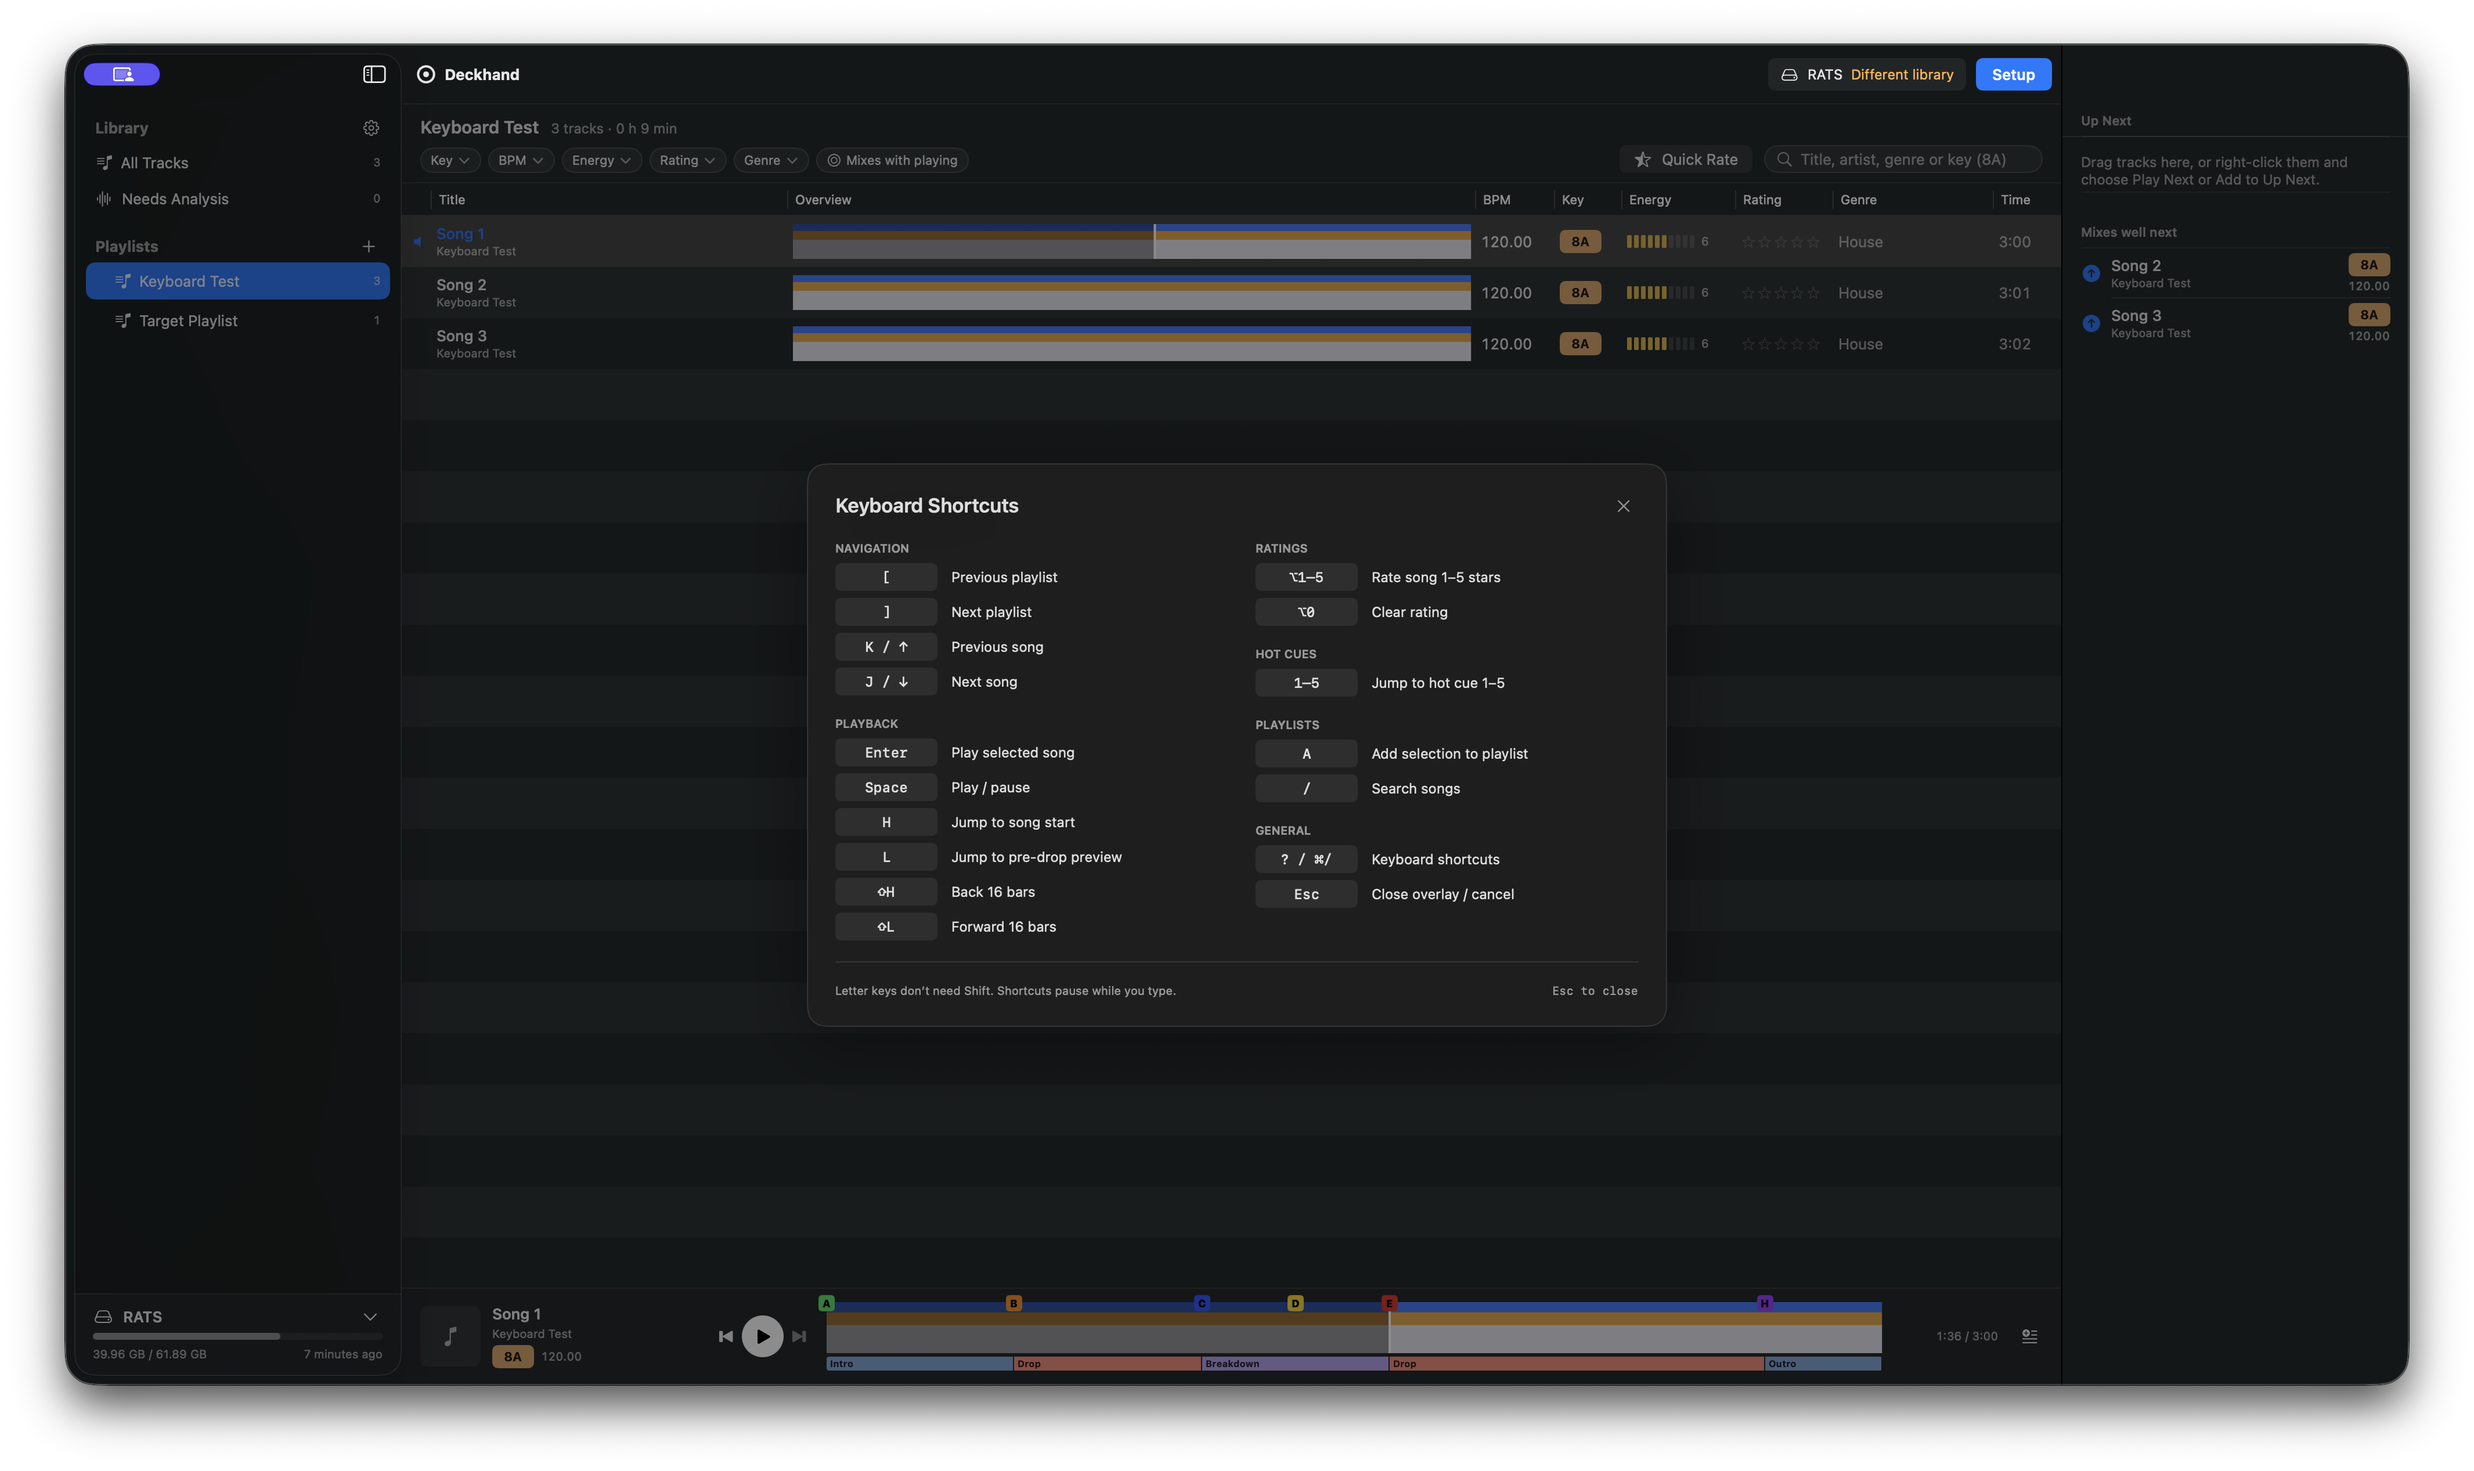
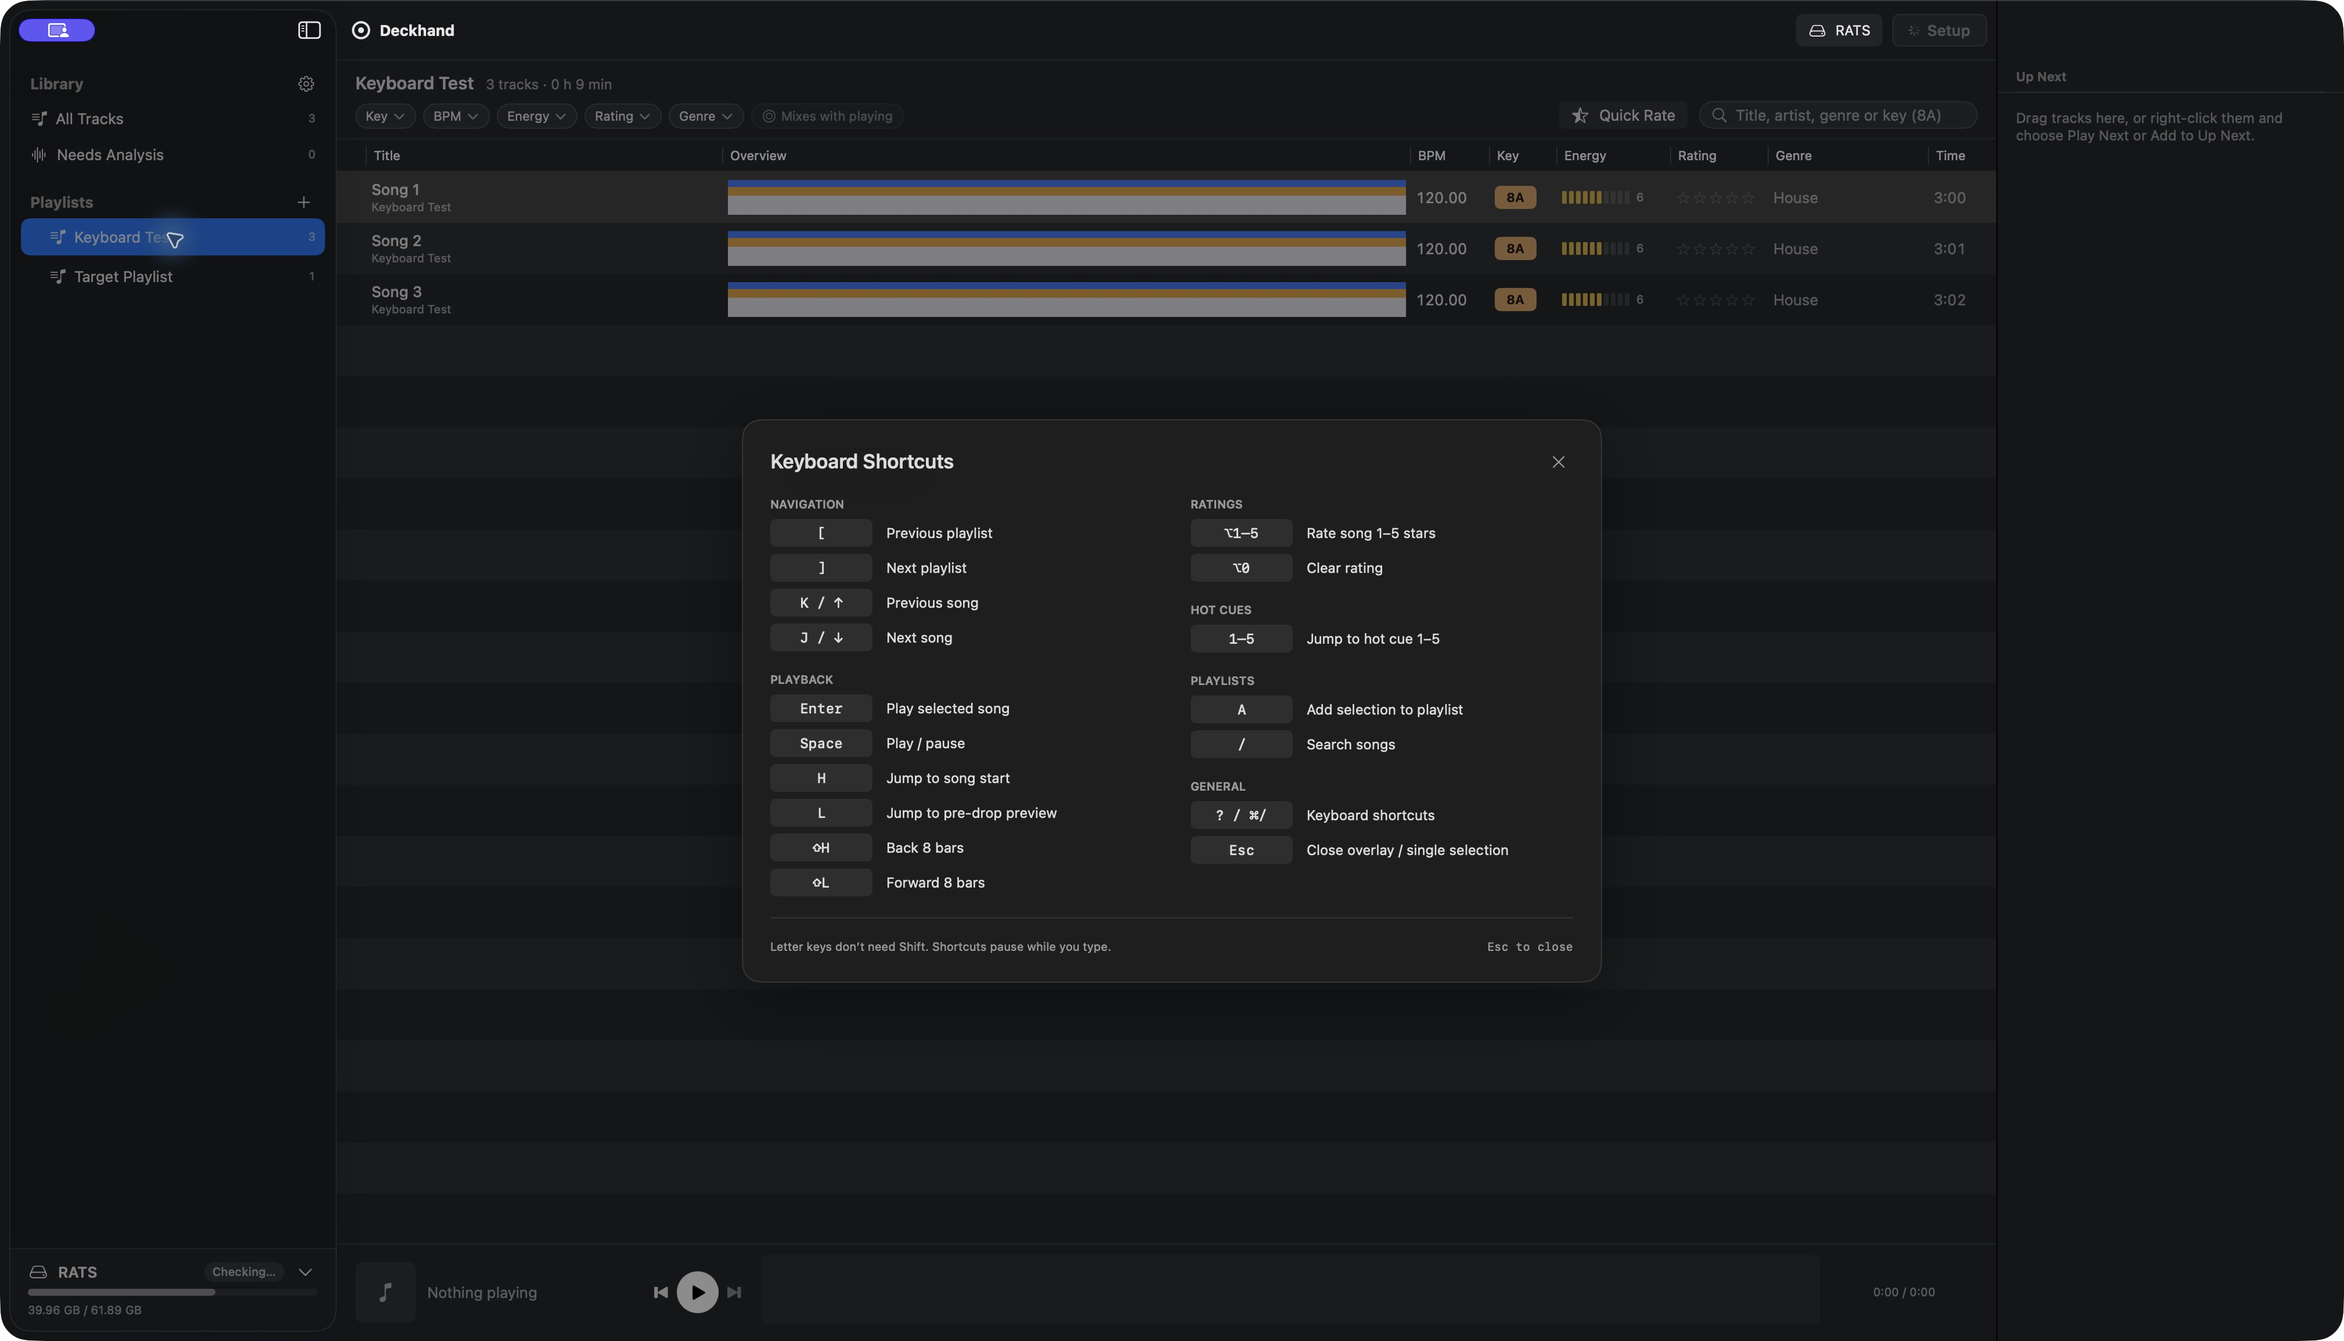
Shorten keyboard bar jumps to eight bars

diff --git a/Tests/DeckhandAppTests/PlayerShortcutTests.swift b/Tests/DeckhandAppTests/PlayerShortcutTests.swift
@@ -69,9 +69,9 @@ import Testing
         player.pause()
         #expect(!player.isPlaying)
         player.seek(seconds: 80)
-        player.jumpBeats(-64)
-        #expect(abs(player.time - 48) < 0.01)
-        player.jumpBeats(64)
+        player.jumpBeats(-32)
+        #expect(abs(player.time - 64) < 0.01) // 8 bars at 120 BPM is 16 seconds.
+        player.jumpBeats(32)
         #expect(abs(player.time - 80) < 0.01)
         player.jumpToPreview()
         #expect(abs(player.time - 24) < 0.01) // 16 beats before the first drop at 32 seconds.
@@ -84,10 +84,10 @@ import Testing
             #expect(!player.isPlaying)
         }
         player.seek(to: 0)
-        player.jumpBeats(-64)
+        player.jumpBeats(-32)
         #expect(player.time == 0)
         player.seek(seconds: 170)
-        player.jumpBeats(64)
+        player.jumpBeats(32)
         #expect(player.time <= player.duration)
         player.toggle()
         #expect(player.isPlaying)

diff --git a/Tests/DeckhandAppTests/TrackKeyboardTests.swift b/Tests/DeckhandAppTests/TrackKeyboardTests.swift
@@ -153,7 +153,7 @@ import SwiftUI
             let keys: [(String, NSEvent.ModifierFlags, UInt16, TrackCommand)] = [
                 ("\r", [], 36, .play(fromMixIn: false)), (" ", [], 49, .togglePlay),
                 ("h", [], 4, .songStart), ("l", [], 37, .preview),
-                ("H", .shift, 4, .beats(-64)), ("L", .shift, 37, .beats(64)),
+                ("H", .shift, 4, .beats(-32)), ("L", .shift, 37, .beats(32)),
                 ("a", [], 0, .addToPlaylist), ("/", [], 44, .search), ("?", .shift, 44, .help),
             ] + (1...5).map { (String($0), [], UInt16(18 + $0), .hotCue($0)) }
               + (0...5).map { (String($0), .option, UInt16(18 + $0), .rate($0)) }

diff --git a/Sources/DeckhandApp/TrackTable.swift b/Sources/DeckhandApp/TrackTable.swift
@@ -415,8 +415,8 @@ final class KeyTableView: NSTableView {
         default: break
         }
         switch text.lowercased() {
-        case "h": return shift ? .beats(-64) : .songStart // 16 four-beat bars.
-        case "l": return shift ? .beats(64) : .preview
+        case "h": return shift ? .beats(-32) : .songStart // 8 four-beat bars.
+        case "l": return shift ? .beats(32) : .preview
         case "a" where !shift: return .addToPlaylist
         case "1" where !shift, "2" where !shift, "3" where !shift, "4" where !shift, "5" where !shift: return .hotCue(Int(text)!)
         case "/" where !shift: return .search

diff --git a/Sources/DeckhandApp/KeyboardHelpView.swift b/Sources/DeckhandApp/KeyboardHelpView.swift
@@ -151,7 +151,7 @@ struct KeyboardHelpView: View {
                         section("Playback", [
                             ("Enter", "Play selected song"), ("Space", "Play / pause"),
                             ("H", "Jump to song start"), ("L", "Jump to pre-drop preview"),
-                            ("⇧H", "Back 16 bars"), ("⇧L", "Forward 16 bars"),
+                            ("⇧H", "Back 8 bars"), ("⇧L", "Forward 8 bars"),
                         ])
                     }
                 }.frame(maxWidth: .infinity, alignment: .leading)

diff --git a/docs/plans/keyboard-shortcuts.md b/docs/plans/keyboard-shortcuts.md
@@ -14,7 +14,7 @@ require Shift unless the Shift symbol is shown. Quick Rate has its own contextua
 | Play / pause | Space | Native app and player tests |
 | Jump to playing song's start | H | Native app; paused transport remains paused |
 | Jump to pre-drop preview | L | Native app; test drop at 32s previews from 24s |
-| Back / forward 16 bars | Shift+H / Shift+L | Native app and beat-grid tests; 64 beats on a four-beat bar grid |
+| Back / forward 8 bars | Shift+H / Shift+L | Native app and beat-grid tests; 32 beats on a four-beat bar grid |
 | Rate 1–5 stars | Option+1–5 | Each value verified in native app using an isolated local library |
 | Clear rating | Option+0 | Native app; persisted rating cleared |
 | Jump to hot cues 1–5 | 1–5 | All five verified at 0s, 32s, 64s, 80s and 96s in the generated track |
@@ -50,7 +50,7 @@ mode-specific shortcuts remain; native testing confirmed cue 8 and its contextua
 - Opening help while editing search now restores the text field and insertion point;
   native testing typed `Song`, opened/closed help, then appended ` 2` successfully.
 - Player tests use generated silent WAVs with synthetic analysis and five hot cues.
-  They verify 64-beat seeks, boundary clamping, playback toggles and pause preservation.
+  They verify 32-beat seeks, boundary clamping, playback toggles and pause preservation.
 - The native walkthrough used only the generated library, playlists and analysis.
   Ratings and playlist membership were read back from its local database after restart.
 - Read-only fingerprints confirmed the real library's tracks, playlists, sources and

diff --git a/README.md b/README.md
@@ -57,7 +57,7 @@ release and replace the app to update. Your saved library stays in Application S
 - **Playlists and ratings, saved locally.** Keep them across source changes and restarts. Explicitly sync
   playlist copies and edited ratings to Music, export Rekordbox XML, or send them to a drive.
 - **Quick Rate.** Plays each unrated track from just before its first drop. One key rates it and moves on.
-- **Keyboard first.** Browse, preview, queue and rate without touching the mouse.
+- **Keyboard first.** Browse, preview, organize and rate without touching the mouse.
 - **A Mac app and a CLI.** Use the SwiftUI app, or script everything with `deckhand`.
 
 Press **?** or **⌘/** to open the keyboard shortcut overlay, or choose **Help → Keyboard Shortcuts**.
@@ -65,7 +65,7 @@ Press **Esc** or **?** again to close it. **[ / ]** switches playlists;
 **k / j** moves up / down through songs, **Enter** plays the selection, and **Space** toggles
 playback. These single-key shortcuts leave search and playlist-name typing alone.
 **H** jumps to the playing song’s start, **L** to its pre-drop preview, and **Shift+H / Shift+L**
-jumps back / forward 16 bars (64 beats). **A** adds the selected songs to a playlist;
+jumps back / forward 8 bars (32 beats). **A** adds the selected songs to a playlist;
 **1–5** jumps to hot cues and **Option+1–5 / Option+0** rates / clears ratings.
 
 ![Deckhand keyboard shortcuts](docs/images/keyboard-shortcuts.png)
